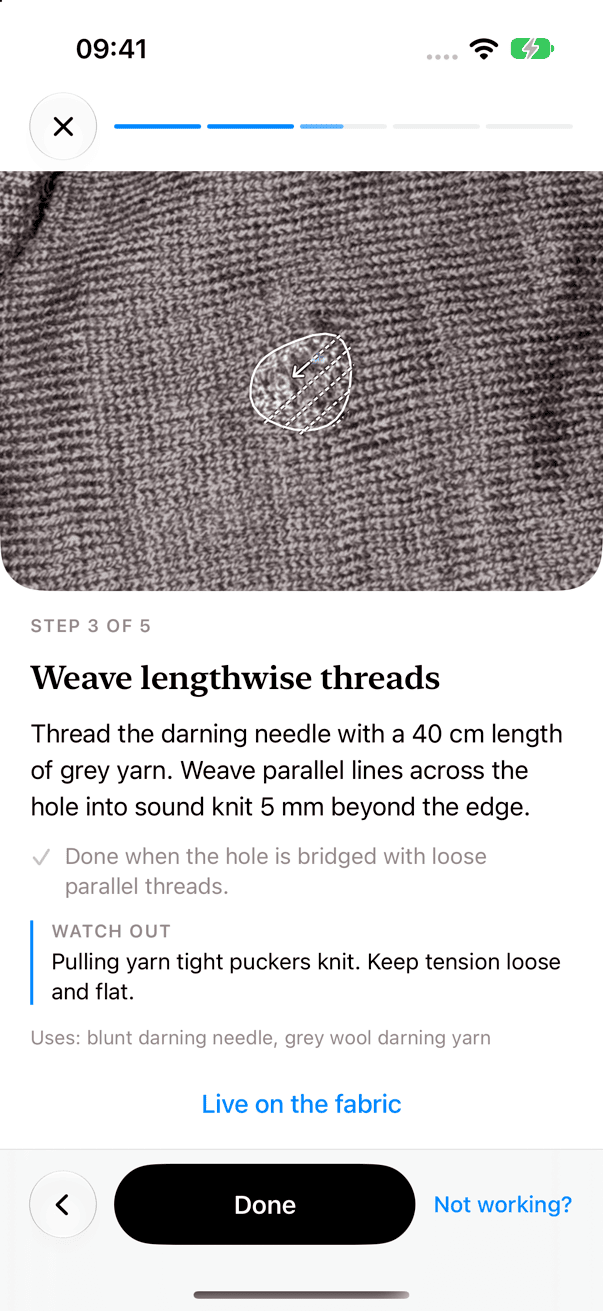
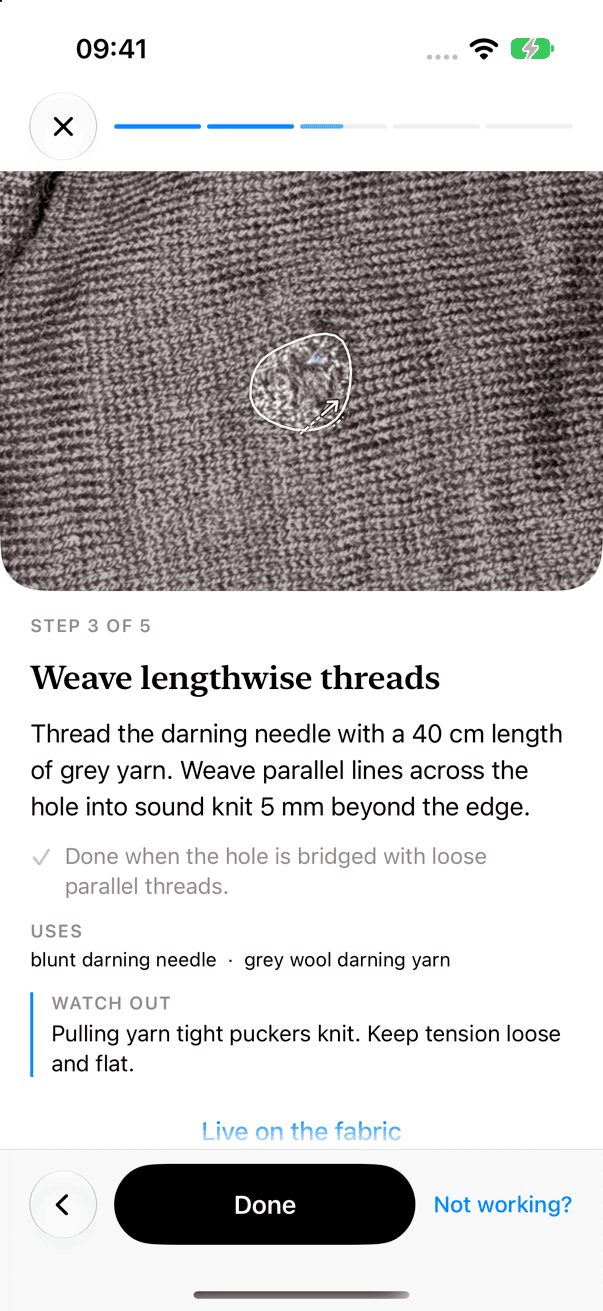
ios: Sicherheitsschritt als eine kompakte Leiste, Uses-Liste ueber Watch out, Einstellungen mit How Mendlet works und Credit-Footer

diff --git a/ios/RepairAssistant/Views/GuideView.swift b/ios/RepairAssistant/Views/GuideView.swift
@@ -60,6 +60,10 @@ struct GuideView: View {
         HStack(spacing: 12) {
             CircleIconButton(systemImage: "xmark", label: "Close") { flow.persist(); flow.reset() }
             SegmentBar(count: steps.count, done: index, current: index)
+            if steps[safe: index]?.needsConfirmation == true {
+                Button("Not working?") { showHelp = true }
+                    .font(.subheadline.weight(.medium)).foregroundStyle(Theme.thread)
+            }
         }
         .padding(.horizontal, Theme.margin).padding(.top, geo.safeAreaInsets.top).padding(.bottom, 8)
         .background(Theme.surface)
@@ -99,6 +103,17 @@ struct GuideView: View {
                     Text(d).font(.subheadline).foregroundStyle(Theme.inkSecondary).fixedSize(horizontal: false, vertical: true)
                 }
             }
+            let items = step.usesItems.compactMap { id in r.shoppingList.first { $0.id == id } }
+            if !items.isEmpty {
+                VStack(alignment: .leading, spacing: 4) {
+                    Text("Uses").overline()
+                    VStack(alignment: .leading, spacing: 2) {
+                        ForEach(Array(items.enumerated()), id: \.offset) { _, it in
+                            Text(Self.shortName(it.name)).font(.footnote).foregroundStyle(Theme.ink)
+                        }
+                    }
+                }
+            }
             if let m = step.commonMistake, !m.isEmpty {
                 HStack(alignment: .top, spacing: 12) {
                     Rectangle().fill(Theme.thread).frame(width: 2)
@@ -110,16 +125,18 @@ struct GuideView: View {
                 .fixedSize(horizontal: false, vertical: true)
             }
             if r.category == .shoe, let t = timerMinutes(step) { TimerRow(minutes: t).id(step.n) }
-            let items = step.usesItems.compactMap { id in r.shoppingList.first { $0.id == id } }
-            if !items.isEmpty {
-                Text("Uses: " + items.map { ($0.name.components(separatedBy: ",").first ?? $0.name).lowercasedFirst }.joined(separator: ", "))
-                    .font(.footnote).foregroundStyle(Theme.inkSecondary).fixedSize(horizontal: false, vertical: true)
-            }
             if step.overlay?.type == .stitchPath, let image = flow.photo {
                 LiveStitchButton(image: image, step: step, response: r, phase: darningPhase(for: step, in: r), demoMode: flow.settings.demoMode)
             }
         }
         .frame(maxWidth: .infinity, alignment: .leading)
+    }
+
+    /// "soldering iron 25-40W with fine tip and stand" -> "soldering iron 25-40W"
+    private static func shortName(_ n: String) -> String {
+        var t = n.components(separatedBy: ",").first ?? n
+        for sep in [" with ", " for "] { if let r = t.range(of: sep) { t = String(t[..<r.lowerBound]) } }
+        return t.lowercasedFirst
     }
 
     private func timerMinutes(_ step: GuideStep) -> Int? {
@@ -128,47 +145,45 @@ struct GuideView: View {
         return m
     }
 
-    private func safetyRow(_ step: GuideStep) -> some View {
-        let on = confirmed.contains(step.n)
-        return Button {
-            if on { confirmed.remove(step.n) } else { confirmed.insert(step.n); Haptics.selection() }
-        } label: {
-            HStack(spacing: 12) {
-                CheckCircle(on: on)
-                Text("I've done this safely").font(.body.weight(.medium)).foregroundStyle(Theme.ink)
-                Spacer(minLength: 0)
-                Image(systemName: "exclamationmark.triangle").font(.system(size: 16)).foregroundStyle(Theme.inkSecondary)
-            }
-            .frame(minHeight: 44)
-            .contentShape(Rectangle())
-        }
-        .buttonStyle(.plain)
-        .accessibilityAddTraits(on ? .isSelected : [])
-    }
-
-    // MARK: Bottom
-
     private func bottomBar(_ step: GuideStep) -> some View {
         let last = index == steps.count - 1
         let locked = step.needsConfirmation && !confirmed.contains(step.n)
-        return VStack(spacing: 6) {
-            if step.needsConfirmation { safetyRow(step).padding(.horizontal, Theme.margin) }
-            HStack(spacing: 12) {
-                if index > 0 {
-                    CircleIconButton(systemImage: "chevron.left", label: "Back") {
-                        forward = false
-                        withAnimation(Theme.spring) { flow.currentStep = index - 1 }
-                    }
+        let on = confirmed.contains(step.n)
+        return HStack(spacing: 12) {
+            if index > 0 {
+                CircleIconButton(systemImage: "chevron.left", label: "Back") {
+                    forward = false
+                    withAnimation(Theme.spring) { flow.currentStep = index - 1 }
                 }
+            }
+            if step.needsConfirmation {
+                // one compact bar: the safety check on the left, Done on the right
+                Button {
+                    if on { confirmed.remove(step.n) } else { confirmed.insert(step.n); Haptics.selection() }
+                } label: {
+                    HStack(spacing: 10) {
+                        CheckCircle(on: on)
+                        Text("I've done this safely").font(.subheadline.weight(.medium)).foregroundStyle(Theme.ink)
+                            .multilineTextAlignment(.leading).fixedSize(horizontal: false, vertical: true)
+                    }
+                    .frame(minHeight: 44).contentShape(Rectangle())
+                }
+                .buttonStyle(.plain)
+                .accessibilityAddTraits(on ? .isSelected : [])
+                Spacer(minLength: 0)
                 Button { advance(last: last) } label: { Text(last ? "Finish" : "Done") }
                     .buttonStyle(PrimaryButtonStyle(kind: .primary))
+                    .frame(width: 112)
                     .disabled(locked)
+            } else {
+                Button { advance(last: last) } label: { Text(last ? "Finish" : "Done") }
+                    .buttonStyle(PrimaryButtonStyle(kind: .primary))
                 Button("Not working?") { showHelp = true }
                     .font(.subheadline.weight(.medium)).foregroundStyle(Theme.thread)
                     .frame(minWidth: 88, minHeight: 44)
             }
-            .padding(.horizontal, Theme.margin)
         }
+        .padding(.horizontal, Theme.margin)
         .padding(.vertical, 10)
         .background(.bar)
         .overlay(alignment: .top) { Rectangle().fill(Theme.hairline).frame(height: 0.5) }

diff --git a/ios/RepairAssistant/Views/SettingsSheet.swift b/ios/RepairAssistant/Views/SettingsSheet.swift
@@ -23,6 +23,11 @@ struct SettingsSheet: View {
                     Text("Photos are sent to the analysis server only to assess the repair.")
                 }
                 Section {
+                    NavigationLink("How Mendlet works") { HowItWorksView() }
+                } footer: {
+                    Text("See the steps behind your last analysis.")
+                }
+                Section {
                     Button("Delete all repairs", role: .destructive) { confirmClear = true }
                 } header: {
                     Text("Data")
@@ -33,12 +38,10 @@ struct SettingsSheet: View {
                     HStack { Text("Mendlet"); Spacer(); Text(version).foregroundStyle(Theme.inkSecondary) }
                         .contentShape(Rectangle())
                         .onTapGesture { taps += 1; if taps >= 5 { dev = true } }
-                    VStack(alignment: .leading, spacing: 4) {
-                        Text("Powered by Meta SAM 3.1, Muse Spark, Muse Wonder, Muse Image and Muse Voice")
-                            .font(.subheadline).foregroundStyle(Theme.inkSecondary)
-                    }
                 } header: {
                     Text("About")
+                } footer: {
+                    Text("Powered by Meta SAM 3.1, Muse Spark, Muse Wonder, Muse Image and Muse Voice.")
                 }
                 if dev {
                     Section("Developer") {
@@ -75,5 +78,31 @@ struct SettingsSheet: View {
         let ok = await LiveAPIClient(baseURL: url).health()
         checking = false
         status = ok ? "OK" : "No response"
+    }
+}
+
+/// The hidden "What happened" trace for the last analysis: every tool call with model and time.
+struct HowItWorksView: View {
+    @Environment(FlowModel.self) private var flow
+
+    var body: some View {
+        ScrollView {
+            VStack(alignment: .leading, spacing: 16) {
+                if flow.agentSteps.isEmpty {
+                    Text("Scan something and the steps of the analysis show up here.")
+                        .font(.body).foregroundStyle(Theme.inkSecondary).lineSpacing(4)
+                } else {
+                    Text("Every analysis runs as a short chain of steps. This is the last one.")
+                        .font(.body).foregroundStyle(Theme.ink).lineSpacing(4)
+                    AgentTraceView(steps: flow.agentSteps, active: nil, replay: flow.settings.demoMode)
+                }
+            }
+            .frame(maxWidth: .infinity, alignment: .leading)
+            .padding(.horizontal, Theme.margin).padding(.top, 16).padding(.bottom, 24)
+        }
+        .scrollIndicators(.hidden)
+        .background(Theme.paper)
+        .navigationTitle("How Mendlet works")
+        .navigationBarTitleDisplayMode(.inline)
     }
 }
